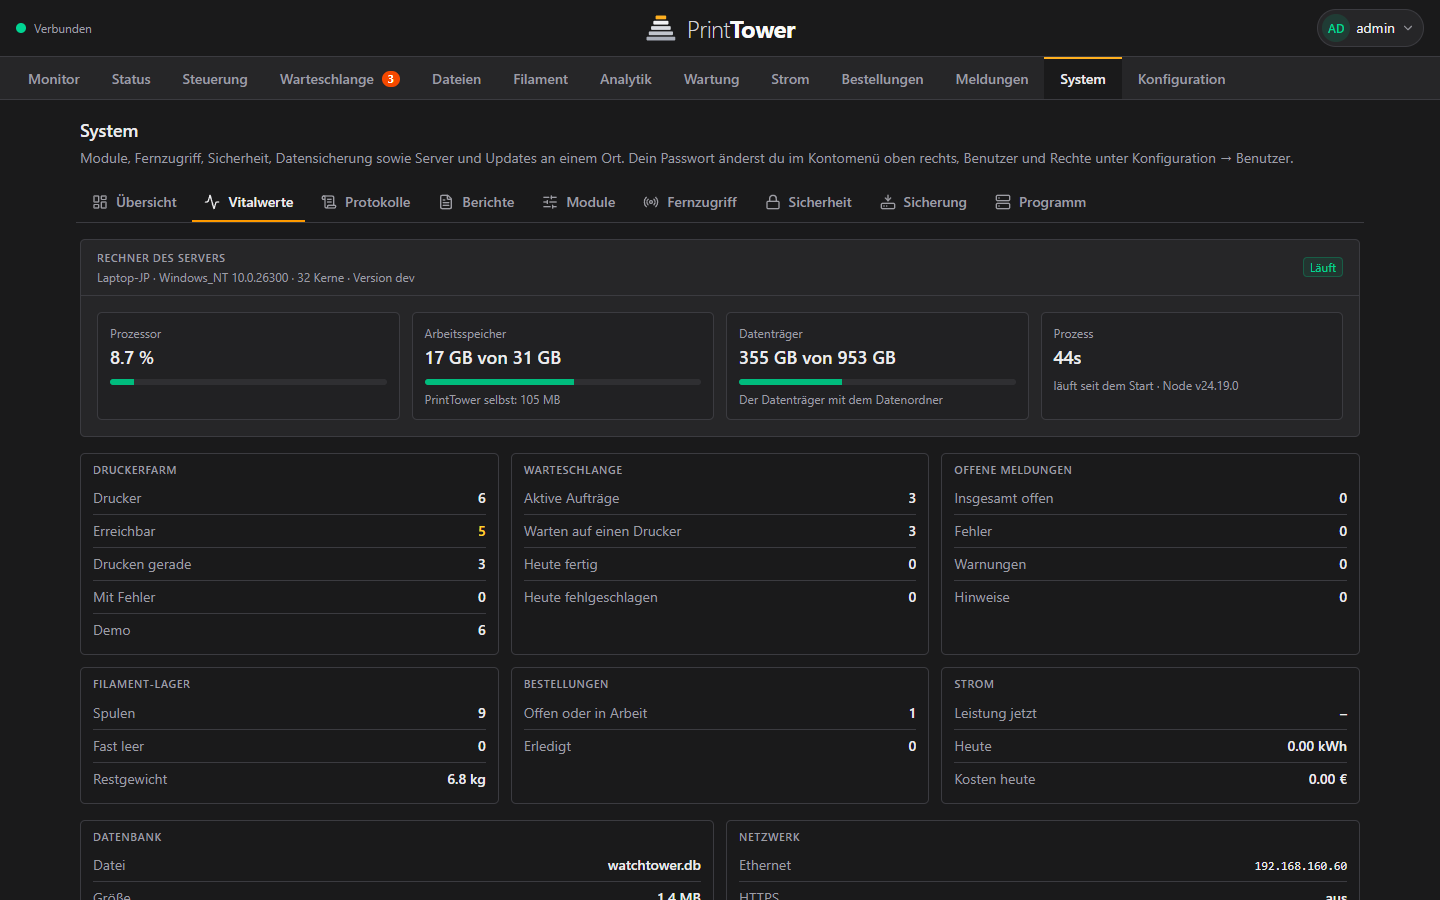
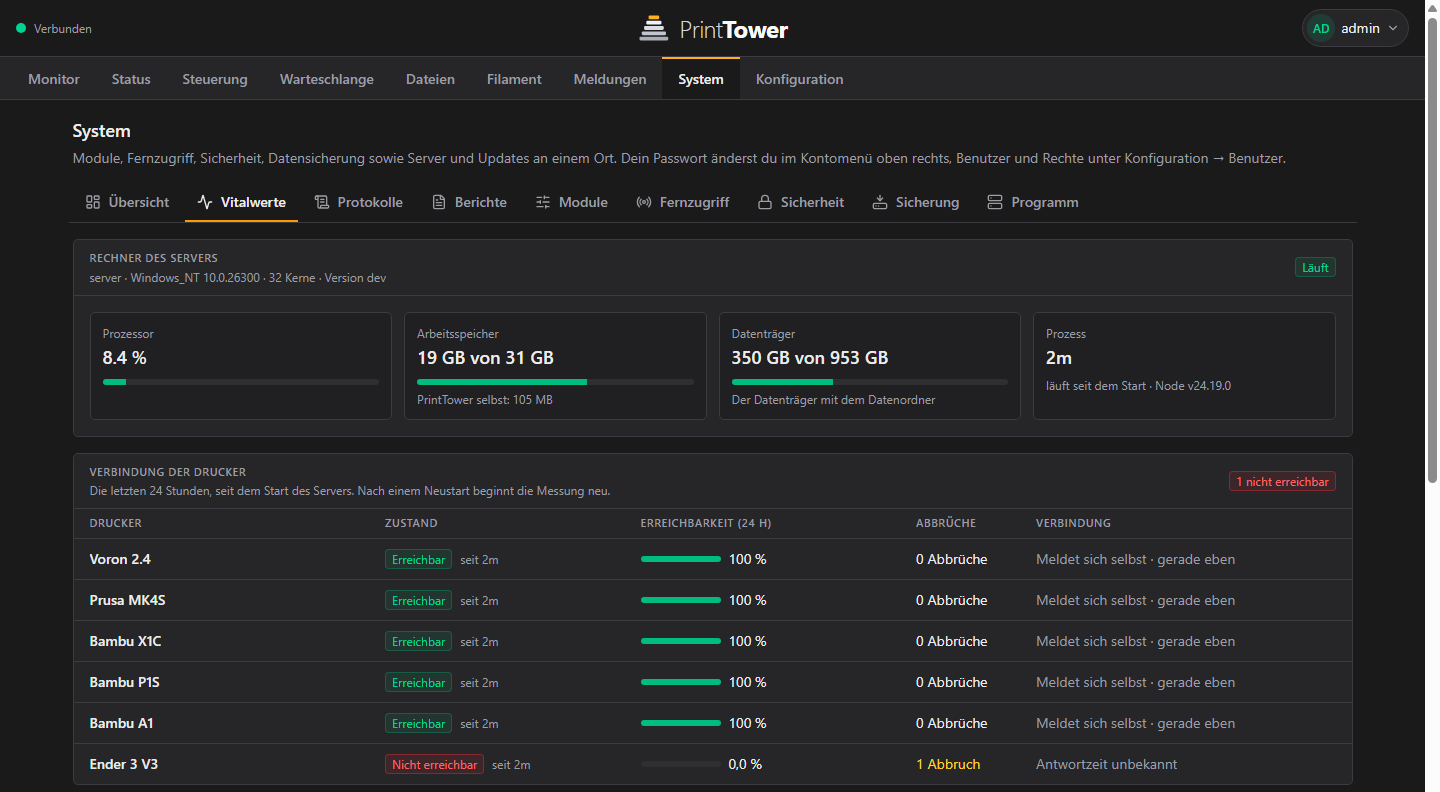
README: Verbindung der Drucker in den Vitalwerten, Konfiguration als Kartenuebersicht

diff --git a/README.md b/README.md
@@ -103,7 +103,7 @@ Acht Ansichten: Übersicht, **Scorecard** (Note von 0 bis 100 und Rangliste der 
 <td width="46%" valign="top">
 
 ### 🩺 Zustand des Servers
-Prozessor, Speicher und Datenträger, die Farm, Warteschlange, Lager, Datenbank und Netzwerk auf einer Seite; dazu Protokolle zum Durchsuchen und **Berichte** zum Drucken oder Speichern.
+Prozessor, Speicher und Datenträger, die Farm, Warteschlange, Lager, Datenbank und Netzwerk auf einer Seite. Dazu die **Verbindung jedes Druckers**: Erreichbarkeit der letzten 24 Stunden, Verbindungsabbrüche, Antwortzeit und die letzten Wechsel mit dem Fehlertext, damit ein schwaches WLAN auffällt, bevor ein Druck daran scheitert. Außerdem Protokolle zum Durchsuchen und **Berichte** zum Drucken oder Speichern.
 
 </td>
 <td width="54%"><img src="docs/images/vitalwerte.png" alt="Vitalwerte"></td>
@@ -121,7 +121,7 @@ Ein **Bildschirmschoner** zeigt nach einstellbarer Zeit die ganze Farm als groß
 <td width="46%" valign="top">
 
 ### ⚙ Einfach einrichten
-Drucker im Netzwerk **automatisch finden lassen**, Räume anlegen, Slicer verbinden. Alles auf einer Seite.
+Die Konfiguration ist eine **Übersicht aus Karten**: Drucker, Druckermodelle, Steckdosen, Bildschirmschoner, Design, Region, Räume, Benachrichtigungen, Benutzer und Updates. Jede Karte zeigt Kennzahlen und öffnet ihre Einstellungen. Drucker im Netzwerk **automatisch finden lassen**, Slicer verbinden; mit Suche, Zoom und Karten, die du per Ziehen ordnest.
 
 </td>
 <td width="54%"><img src="docs/images/konfiguration.png" alt="Konfiguration"></td>
